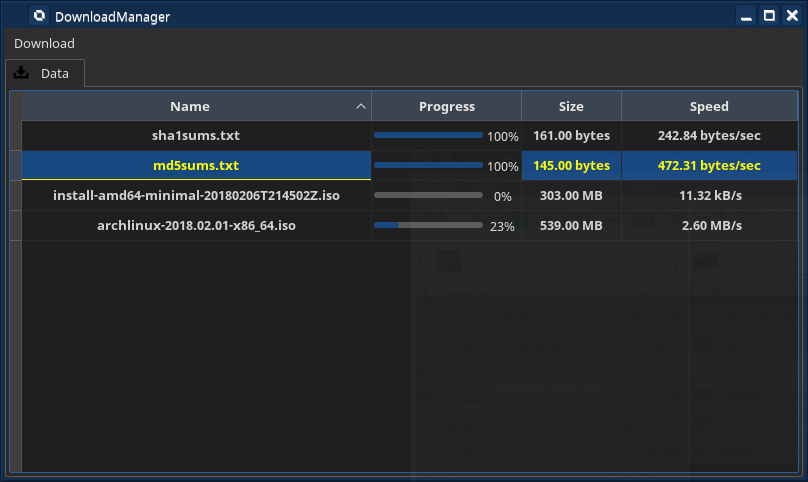
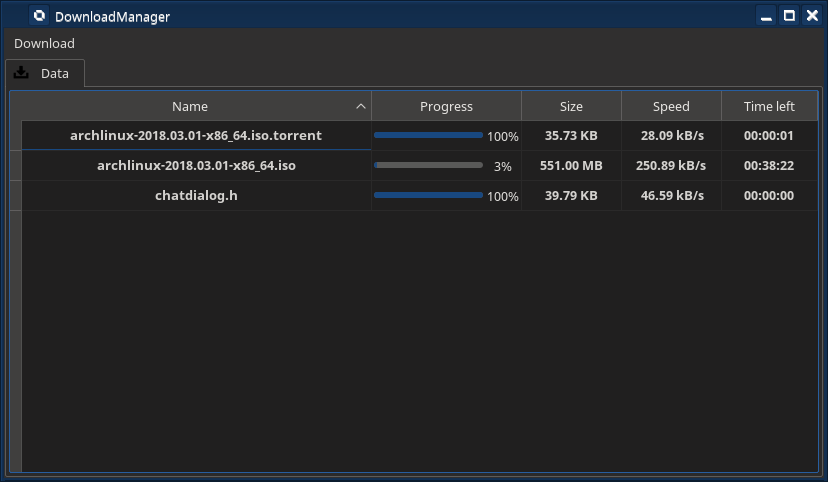
add download time remaining

diff --git a/DownloadManager/downloadprogresssingleconnect.cpp b/DownloadManager/downloadprogresssingleconnect.cpp
@@ -1,4 +1,5 @@
 #include "downloadprogresssingleconnect.h"
+#include <QDebug>
 
 DownloadProgressSingleConnect::DownloadProgressSingleConnect(QUrl downloadUrl, DownloaderTable * pointerToDataModel){
     dataModel = pointerToDataModel;
@@ -33,6 +34,19 @@ QString DownloadProgressSingleConnect::sizeHuman(qint64 fileSize){
     return QString().setNum(num, 'f', 2) + " " + units;
 }
 
+QString DownloadProgressSingleConnect::timeHuman(const int secondsToFinishDownload){
+    int seconds = secondsToFinishDownload%60;
+    int minutes = secondsToFinishDownload/60;
+    int hours = minutes/60;
+    minutes%=60;
+
+    QString secondsFormat = seconds < 10 ? "0" + QString::number(seconds) : QString::number(seconds);
+    QString minutesFormat = minutes < 10 ? "0" + QString::number(minutes) : QString::number(minutes);
+    QString hoursFormat = hours < 10 ? "0" + QString::number(hours) : QString::number(hours);
+
+    return hoursFormat + ":" + minutesFormat + ":" + secondsFormat;
+}
+
 void DownloadProgressSingleConnect::downloadProgress(qint64 received, qint64 total){
     double downloadSpeed = received * 1000.0 / downloadTime.elapsed();
     int progress = (100*received)/total;
@@ -55,6 +69,10 @@ void DownloadProgressSingleConnect::downloadProgress(qint64 received, qint64 tot
 
     QString speed = speedFormat+ " " + unit;
 
+    int secondsToFinishDownload = static_cast<int>(total/downloadSpeed);
+    secondsToFinishDownload/=1000;
+    QString timeLeft = timeHuman(secondsToFinishDownload);
+
     QString filenameToFind = url.fileName();
     int row = dataModel->getRowOfDownloadByName(filenameToFind);
 
@@ -66,6 +84,9 @@ void DownloadProgressSingleConnect::downloadProgress(qint64 received, qint64 tot
 
     index = dataModel->index(row, 3, QModelIndex());
     dataModel->setData(index, speed, Qt::EditRole);
+
+    index = dataModel->index(row, 4, QModelIndex());
+    dataModel->setData(index, timeLeft, Qt::EditRole);
 }
 
 const QUrl & DownloadProgressSingleConnect::getUrl() const{

diff --git a/DownloadManager/downloadertable.cpp b/DownloadManager/downloadertable.cpp
@@ -12,7 +12,7 @@ int DownloaderTable::rowCount(const QModelIndex &parent) const{
 
 int DownloaderTable::columnCount(const QModelIndex &parent) const{
     Q_UNUSED(parent);
-    return 4;
+    return 5;
 }
 
 QVariant DownloaderTable::headerData(int section, Qt::Orientation orientation, int role) const{
@@ -29,6 +29,8 @@ QVariant DownloaderTable::headerData(int section, Qt::Orientation orientation, i
                 return "Size";
             case 3:
                 return "Speed";
+            case 4:
+                return "Time left";
         }
     }
     return QVariant();
@@ -49,6 +51,8 @@ QVariant DownloaderTable::data(const QModelIndex &index, int role) const{
             return dataInfo.size;
         else if(index.column() == 3)
             return dataInfo.speed;
+        else if(index.column() == 4)
+            return dataInfo.timeLeft;
     }
 
     if(role == Qt::TextAlignmentRole)
@@ -57,6 +61,7 @@ QVariant DownloaderTable::data(const QModelIndex &index, int role) const{
             case 1:
             case 2:
             case 3:
+            case 4:
                 return Qt::AlignCenter;
             default:
                 return Qt::AlignLeft;
@@ -70,7 +75,7 @@ bool DownloaderTable::insertRows(int row, int count, const QModelIndex &parent){
 
     beginInsertRows(QModelIndex(), row, row + count - 1);
     REP(i, count)
-            downloadsInfo.insert(row, { QString(), qint64(), QString(), QString() });
+            downloadsInfo.insert(row, { QString(), qint64(), QString(), QString(), QString() });
     endInsertRows();
     return true;
 }
@@ -99,6 +104,8 @@ bool DownloaderTable::setData(const QModelIndex &index, const QVariant &value, i
             setDataInfo.size = value.toString();
         else if(index.column() == 3)
             setDataInfo.speed = value.toString();
+        else if(index.column() == 4)
+            setDataInfo.timeLeft = value.toString();
         else
             return false;
 

diff --git a/DownloadManager/downloaderwidget.cpp b/DownloadManager/downloaderwidget.cpp
@@ -41,6 +41,7 @@ void downloaderWidget::setupTable(){
     dataViewer->setColumnWidth(0, 350);
     dataViewer->setColumnWidth(1, 150);
     dataViewer->setColumnWidth(2, 100);
+    dataViewer->setColumnWidth(3, 100);
     dataViewer->horizontalHeader()->setStretchLastSection(true);
 
     dataViewer->setItemDelegate(downloadPainter);

diff --git a/DownloadManager/mainwindow.cpp b/DownloadManager/mainwindow.cpp
@@ -13,7 +13,7 @@ MainWindow::MainWindow(){
 
     QPropertyAnimation * animation;
     animation = new QPropertyAnimation(this, "size");
-    animation->setEndValue(QSize(800, 450));
+    animation->setEndValue(QSize(820, 450));
     animation->start();
 }
 

diff --git a/DownloadManager/downloadertable.h b/DownloadManager/downloadertable.h
@@ -10,6 +10,7 @@ struct singleDownloadInfo{
     qint64 progress;
     QString size;
     QString speed;
+    QString timeLeft;
 
     bool operator==(const singleDownloadInfo &);
 };

diff --git a/DownloadManager/downloadprogresssingleconnect.h b/DownloadManager/downloadprogresssingleconnect.h
@@ -26,6 +26,7 @@ private:
     QTime downloadTime;
     QUrl url;
 protected:
+    QString timeHuman(const int);
     QString sizeHuman(const qint64);
 };
 
